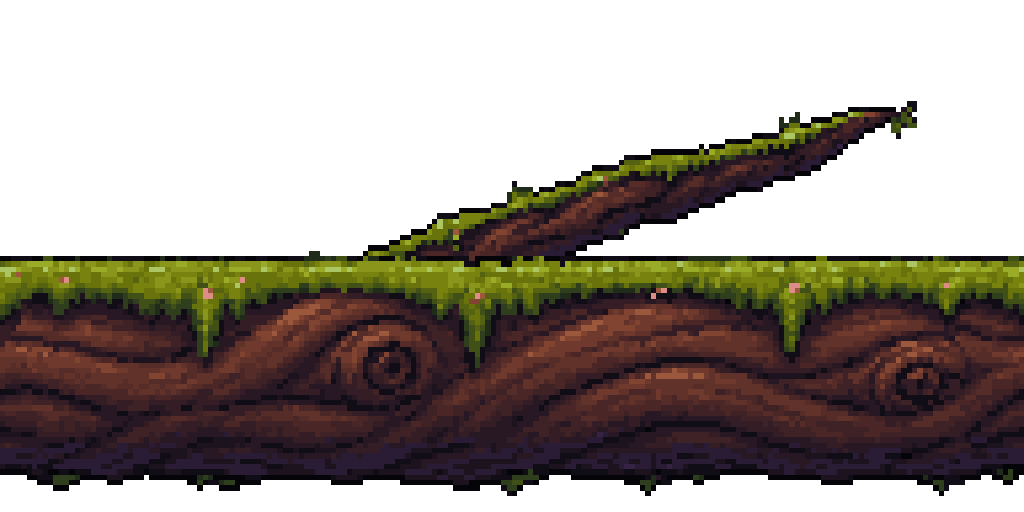
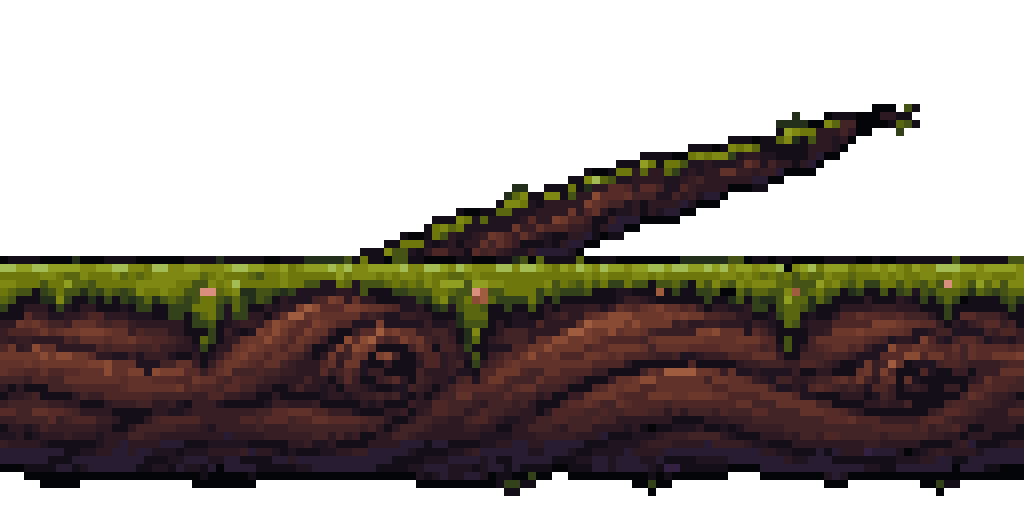
Troncs et branches : pixels plus gros (8 px par pixel au lieu de 5,33, demande utilisateur)

diff --git a/src/data/pixel_fixed.js b/src/data/pixel_fixed.js
@@ -3,12 +3,12 @@
 // BootScene les affiche sans lissage (NEAREST) ; import_codex_assets.py ne
 // les réécrit pas. `f` : px de l'image = 1 pixel dessiné ; `set` : le lot.
 const PIXEL_FIXED = {
-  "assets/decors/elements/branche_base.png": {"f":5.33,"set":"files:assets/decors/elements/branche_milieu.png"},
-  "assets/decors/elements/branche_bout.png": {"f":5.33,"set":"files:assets/decors/elements/branche_milieu.png"},
-  "assets/decors/elements/branche_fourche.png": {"f":5.33,"set":"files:assets/decors/elements/branche_milieu.png"},
-  "assets/decors/elements/branche_milieu.png": {"f":5.33,"set":"files:assets/decors/elements/branche_milieu.png"},
-  "assets/decors/elements/tronc_base.png": {"f":5.33,"set":"files:assets/decors/elements/branche_milieu.png"},
-  "assets/decors/elements/tronc_segment.png": {"f":5.33,"set":"files:assets/decors/elements/branche_milieu.png"},
+  "assets/decors/elements/branche_base.png": {"f":8,"set":"files:assets/decors/elements/branche_milieu.png"},
+  "assets/decors/elements/branche_bout.png": {"f":8,"set":"files:assets/decors/elements/branche_milieu.png"},
+  "assets/decors/elements/branche_fourche.png": {"f":8,"set":"files:assets/decors/elements/branche_milieu.png"},
+  "assets/decors/elements/branche_milieu.png": {"f":8,"set":"files:assets/decors/elements/branche_milieu.png"},
+  "assets/decors/elements/tronc_base.png": {"f":8,"set":"files:assets/decors/elements/branche_milieu.png"},
+  "assets/decors/elements/tronc_segment.png": {"f":8,"set":"files:assets/decors/elements/branche_milieu.png"},
   "assets/decors/tuiles_corrompues_frames/coin.png": {"f":5.33,"set":"tiles:tuiles_corrompues"},
   "assets/decors/tuiles_corrompues_frames/dirt_angle.png": {"f":5.33,"set":"tiles:tuiles_corrompues"},
   "assets/decors/tuiles_corrompues_frames/dirt_b.png": {"f":5.33,"set":"tiles:tuiles_corrompues"},

diff --git a/CLAUDE.md b/CLAUDE.md
@@ -105,9 +105,9 @@ ligne de marche du jeu par défaut. Hauteur de marche : `448 + GROUND_STAND_SINK
   Comparaison 24/32/48/64 : `docs/production/apercus/tuiles_24_32_48_64.png`.
   **Troncs et branches du grand arbre** (6 pièces de `assets/decors/elements/` : branche_milieu,
   _base, _bout, _fourche, tronc_segment, tronc_base) refaits le 2026-11-11, même densité que
-  les tuiles (5,33 px par pixel), 24 couleurs, mode `--tileable` (pièces qui se raccordent) ;
+  les tuiles au départ, puis pixels plus gros à la demande (8 px par pixel), 24 couleurs, mode `--tileable` (pièces qui se raccordent) ;
   BrancheKit les compose sans lissage quand elles sont dans le registre :
-  `node tools/pixelfix.js files <les 6 png> --tileable --factor 5.33 --colors 24`.
+  `node tools/pixelfix.js files <les 6 png> --tileable --factor 8 --colors 24`.
   Référence : `node tools/pixelfix.js agarica --height 92`. Les autres personnages se
   calent sur cette densité. Ne refaire d'autres images qu'avec l'accord de l'utilisateur.
 
